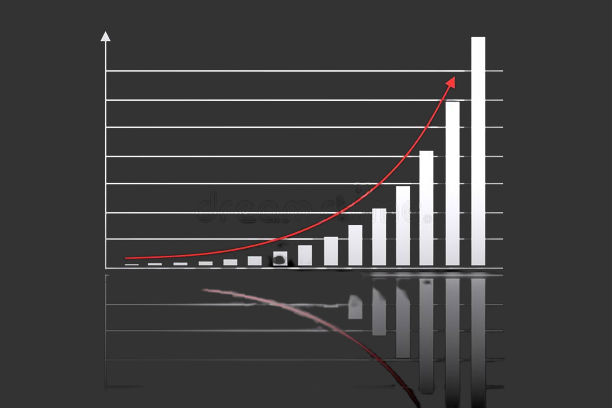
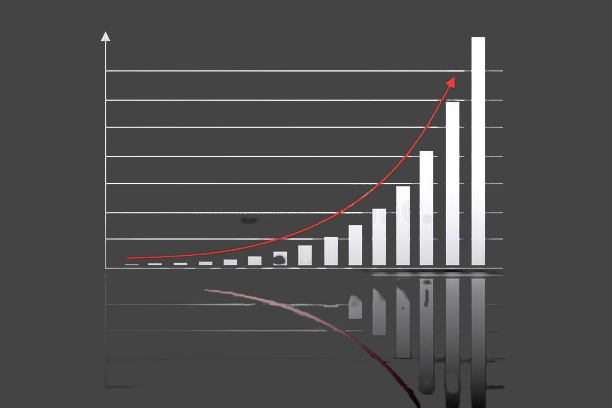
Day3 update

diff --git a/src/app/compoundint/compoundint.component.ts b/src/app/compoundint/compoundint.component.ts
@@ -6,5 +6,94 @@ import { Component } from '@angular/core';
   styleUrls: ['./compoundint.component.css']
 })
 export class CompoundintComponent {
+  init = 0.0
+  month = 0.0
+  rate = 0.0
+  inving = 0
+  invment = 0
+  np = ""
+  principal = 0
+  intrate = 0
+  abc = false
 
+  onClick(ii: any, mi: any, roi: any, yoing: any, yoiment: any)
+  {
+    this.abc = true
+    if(ii != "")
+    {
+      this.init = parseFloat(ii)
+    }
+    if(ii == "")
+    {
+      this.init = 0
+    }
+    if(mi != "")
+    {
+      this.month = parseFloat(mi)
+    }
+    if(mi == "")
+    {
+      this.month = 0
+    }
+    if(roi != "")
+    {
+      this.rate = parseFloat(roi)
+    }
+    if(roi == "")
+    {
+      this.rate = 0.0
+    }
+    if(yoing != "")
+    {
+      this.inving = parseInt(yoing)
+    }
+    if(yoing == "")
+    {
+      this.inving = 0
+    }
+    if(yoiment != "")
+    {
+      this.invment = parseInt(yoiment)
+    }
+    if(yoiment == "")
+    {
+      this.invment = this.inving
+    }
+    if(this.inving > this.invment)
+    {
+      this.np = "Total Years of Investment should be greater than or equal to Years of Investing"
+      this.abc = false
+    }
+    if(this.inving <= this.invment)
+    {
+      this.np = ""
+    }
+    this.calc()
+  }
+  onChange(yoing: any)
+  {
+    this.inving = parseInt(yoing)
+  }
+  calc() {
+    this.principal = this.init
+    for(var i = 1; i <= this.inving; i++)
+    {
+      this.principal = this.principal + (this.month*12)
+      this.interest()
+    }
+    if(this.inving < this.invment)
+    {
+      this.invment = this.invment - this.inving
+      for(var i = 1; i <= this.invment; i++)
+      {
+        this.interest()
+      }
+    }
+  }
+  interest(){
+    this.intrate = this.principal * this.rate / 100.0
+    this.principal = this.principal + this.intrate
+  }
 }
+
+

diff --git a/src/app/options/options.component.html b/src/app/options/options.component.html
@@ -188,15 +188,19 @@
 <div id="hl"></div>
 
 <div id="compint">
-    <img src="/assets/images/compint1.png" alt="" width="400px">
-    <h2 style="color: white; margin-left: 20%; margin-top: 0%;">Compound Interest</h2>
+    <img src="/assets/images/compint1.png" alt="" width="400px" (mouseover) = "onHover(1)" (mouseout) = "out()" (click) = "onClickCompInt()">
+    <h2 style="color: white; margin-left: 10%; margin-top: 0%;" *ngIf = "num === 1">Compound Interest Calculator</h2>
 </div>
 
 <div id="tax">
-    <img src="/assets/images/tax.png" alt="" width="250px">
-    <h2 style="color: white; margin-left: 40%; margin-top: 0%;">Tax</h2>
+    <img src="/assets/images/tax.png" alt="" width="250px" (mouseover) = "onHover(2)" (mouseout) = "out()" (click) = "onClickTax()">
+    <h2 style="color: white; margin-left: 20%; margin-top: 0%;" *ngIf = "num === 2">Tax Calculator</h2>
 </div>
 <div id="ircalc">
-    <h2 style="color: white; margin-bottom: 0%;">Interest Rate Calculator</h2>
-    <img src="/assets/images/tax.png" alt="" width="250px">
+    <h2 style="color: white; margin-bottom: 0%;" *ngIf = "num === 3">Interest Rate Calculator</h2>
+    <img src="/assets/images/rate.png" alt="" width="250px" (mouseover) = "onHover(3)" (mouseout) = "out()" (click) = "onClickRate()">
+</div>
+<div id="target">
+    <h2 style="color: white; margin-bottom: 0%; margin-left: 20%;" *ngIf = "num === 4">Target Planner</h2>
+    <img src="/assets/images/target.png" alt="" width="250px" (mouseover) = "onHover(4)" (mouseout) = "out()" (click) = "onClickTarget()">
 </div>

diff --git a/src/app/compoundint/compoundint.component.html b/src/app/compoundint/compoundint.component.html
@@ -1,1 +1,32 @@
-<p>Compound interest works</p>
+<h1 style="text-align: center; color: white;">
+    COMPOUND INTEREST CALCULATOR
+</h1>
+<div id="req">
+    <p>
+    <label for="">Initial Investment: </label>
+    <input type="number" name="" id="" min="0" #ii>
+    </p>
+    <p>
+    <label for="">Monthly Investment: </label>
+    <input type="number" name="" id="" min="0" #mi>
+    </p>
+    <p>
+    <label for="">Rate of Interest: </label>
+    <input type="number" min="0" #roi>
+    </p>
+    <p>
+    <label for="">Years of Investing: </label>
+    <input type="number" min="0" #yoing (change) = "onChange(yoing.value)">
+    </p>
+    <p>
+    <label for="">Total Years of Investment: </label>
+    <input type="number" min="{{inving}}" #yoiment>
+    </p>
+    <br>
+
+    <button (click) = "onClick(ii.value,mi.value, roi.value, yoing.value, yoiment.value)">
+        Calculate
+    </button>
+</div>
+<div>{{np}}</div>
+<div style="position: absolute; left: 20%;" *ngIf = "abc">{{principal}}</div>

diff --git a/src/app/app-routing.module.ts b/src/app/app-routing.module.ts
@@ -2,6 +2,9 @@ import { NgModule } from '@angular/core';
 import { RouterModule, Routes } from '@angular/router';
 import { CompoundintComponent } from './compoundint/compoundint.component';
 import { OptionsComponent } from './options/options.component';
+import { RateComponent } from './rate/rate.component';
+import { TargetComponent } from './target/target.component';
+import { TaxComponent } from './tax/tax.component';
 import { WelcomeComponent } from './welcome/welcome.component';
 
 const routes: Routes = [
@@ -9,6 +12,9 @@ const routes: Routes = [
   {path: "welcome", component: WelcomeComponent},
   {path: "options", component: OptionsComponent},
   {path: "comp-int", component: CompoundintComponent},
+  {path: "tax", component : TaxComponent},
+  {path: "rate", component: RateComponent},
+  {path: "target", component: TargetComponent}
 ];
 
 @NgModule({

diff --git a/src/app/options/options.component.ts b/src/app/options/options.component.ts
@@ -1,4 +1,5 @@
 import { Component } from '@angular/core';
+import { Router } from '@angular/router';
 
 @Component({
   selector: 'app-options',
@@ -6,5 +7,31 @@ import { Component } from '@angular/core';
   styleUrls: ['./options.component.css']
 })
 export class OptionsComponent {
+  constructor(private router: Router){}
+ num = 0
+  onHover(n: number)
+  {
+    this.num = n;
+  }
+  out()
+  {
+    this.num = 0
+  }
 
+  onClickCompInt()
+  {
+    this.router.navigate(["/comp-int"])
+  }
+  onClickTax()
+  {
+    this.router.navigate(["/tax"])
+  }
+  onClickRate()
+  {
+    this.router.navigate(["/rate"])
+  }
+  onClickTarget()
+  {
+    this.router.navigate(["/target"])
+  }
 }

diff --git a/src/app/app.module.ts b/src/app/app.module.ts
@@ -6,13 +6,19 @@ import { AppComponent } from './app.component';
 import { CompoundintComponent } from './compoundint/compoundint.component';
 import { WelcomeComponent } from './welcome/welcome.component';
 import { OptionsComponent } from './options/options.component';
+import { TaxComponent } from './tax/tax.component';
+import { RateComponent } from './rate/rate.component';
+import { TargetComponent } from './target/target.component';
 
 @NgModule({
   declarations: [
     AppComponent,
     CompoundintComponent,
     WelcomeComponent,
-    OptionsComponent
+    OptionsComponent,
+    TaxComponent,
+    RateComponent,
+    TargetComponent
   ],
   imports: [
     BrowserModule,

diff --git a/src/app/target/target.component.spec.ts b/src/app/target/target.component.spec.ts
@@ -1,0 +1,23 @@
+import { ComponentFixture, TestBed } from '@angular/core/testing';
+
+import { TargetComponent } from './target.component';
+
+describe('TargetComponent', () => {
+  let component: TargetComponent;
+  let fixture: ComponentFixture<TargetComponent>;
+
+  beforeEach(async () => {
+    await TestBed.configureTestingModule({
+      declarations: [ TargetComponent ]
+    })
+    .compileComponents();
+
+    fixture = TestBed.createComponent(TargetComponent);
+    component = fixture.componentInstance;
+    fixture.detectChanges();
+  });
+
+  it('should create', () => {
+    expect(component).toBeTruthy();
+  });
+});

diff --git a/src/app/rate/rate.component.spec.ts b/src/app/rate/rate.component.spec.ts
@@ -1,0 +1,23 @@
+import { ComponentFixture, TestBed } from '@angular/core/testing';
+
+import { RateComponent } from './rate.component';
+
+describe('RateComponent', () => {
+  let component: RateComponent;
+  let fixture: ComponentFixture<RateComponent>;
+
+  beforeEach(async () => {
+    await TestBed.configureTestingModule({
+      declarations: [ RateComponent ]
+    })
+    .compileComponents();
+
+    fixture = TestBed.createComponent(RateComponent);
+    component = fixture.componentInstance;
+    fixture.detectChanges();
+  });
+
+  it('should create', () => {
+    expect(component).toBeTruthy();
+  });
+});

diff --git a/src/app/tax/tax.component.spec.ts b/src/app/tax/tax.component.spec.ts
@@ -1,0 +1,23 @@
+import { ComponentFixture, TestBed } from '@angular/core/testing';
+
+import { TaxComponent } from './tax.component';
+
+describe('TaxComponent', () => {
+  let component: TaxComponent;
+  let fixture: ComponentFixture<TaxComponent>;
+
+  beforeEach(async () => {
+    await TestBed.configureTestingModule({
+      declarations: [ TaxComponent ]
+    })
+    .compileComponents();
+
+    fixture = TestBed.createComponent(TaxComponent);
+    component = fixture.componentInstance;
+    fixture.detectChanges();
+  });
+
+  it('should create', () => {
+    expect(component).toBeTruthy();
+  });
+});

diff --git a/src/app/options/options.component.css b/src/app/options/options.component.css
@@ -57,14 +57,23 @@
 #compint{
     position: absolute;
     left: 20%;
+    cursor: pointer;
 }
 #tax{
     position: absolute;
     top: 12%;
     right: 25%;
+    cursor: pointer;
 }
 #ircalc{
     position: absolute;
     bottom: 8.5%;
     left: 25%;
+    cursor: pointer;
+}
+#target{
+    position: absolute;
+    bottom: 8.5%;
+    right: 25%;
+    cursor: pointer;
 }

diff --git a/src/app/compoundint/compoundint.component.css b/src/app/compoundint/compoundint.component.css
@@ -1,0 +1,20 @@
+#req{
+    position: absolute;
+    left: 30%;
+    right: 30%;
+    border-radius: 20px;
+    height: 80%;
+    width: 40%;
+    background-color: white;
+    border: none;
+}
+label{
+    margin-left: 20%;
+}
+input{
+    float: right;
+    margin-right: 20%;
+}
+p{
+    margin: 5% 0%;
+}

diff --git a/src/app/app.component.css b/src/app/app.component.css
@@ -3,7 +3,7 @@ html{
     margin: -1%;
     box-sizing: border-box;
     overflow: hidden;
-    background-color: #333;
+    background-color: #444;
     background-attachment: fixed;
     background-repeat: no-repeat;
     background-size: cover;
